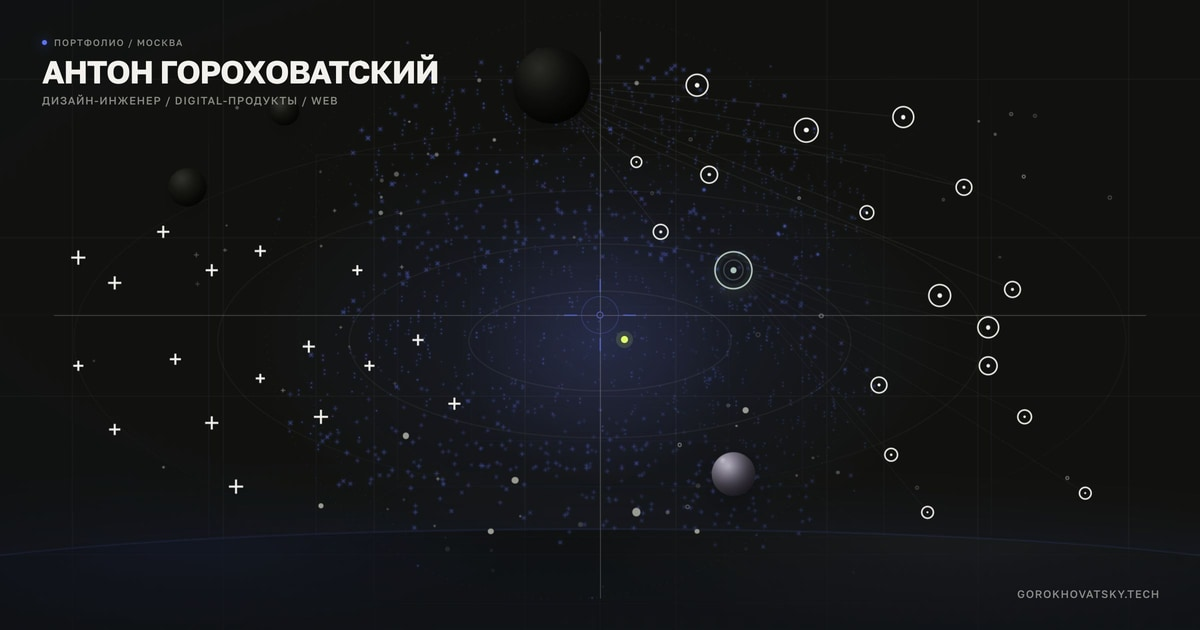
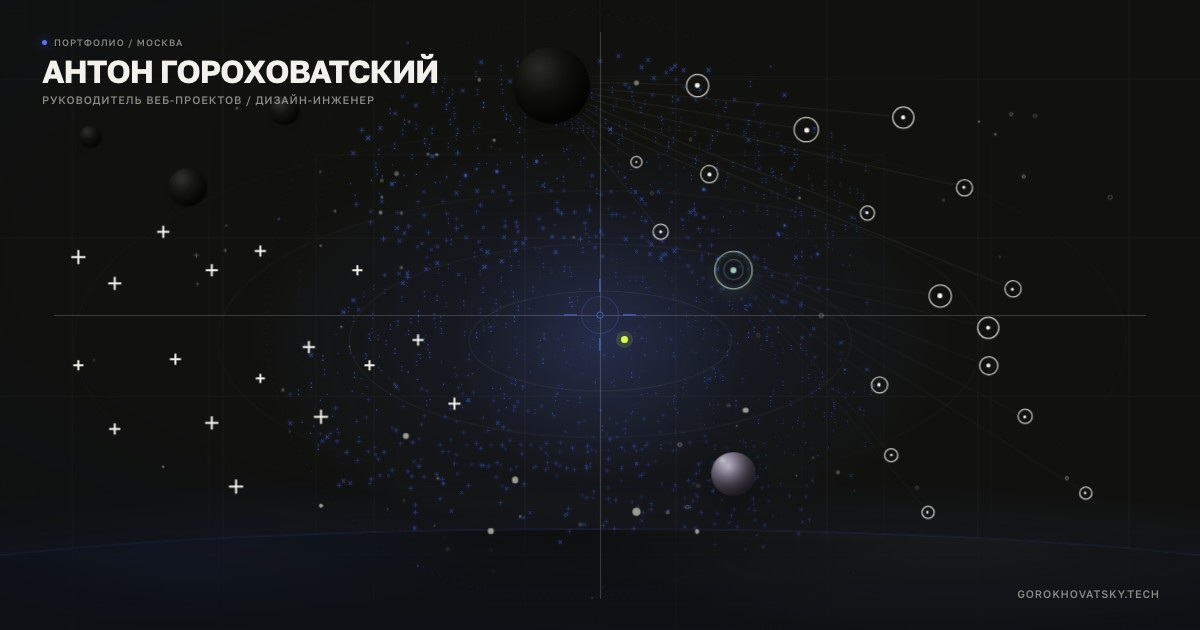
Refresh homepage share image

diff --git a/index.html b/index.html
@@ -38,18 +38,18 @@
     <meta property="og:url" content="https://gorokhovatsky.tech/">
     <meta
       property="og:image"
-      content="https://gorokhovatsky.tech/assets/og-signal.jpg?v=20260729-share-card-1"
+      content="https://gorokhovatsky.tech/assets/og-signal.jpg?v=1f19f782ca1f"
     >
     <meta
       property="og:image:secure_url"
-      content="https://gorokhovatsky.tech/assets/og-signal.jpg?v=20260729-share-card-1"
+      content="https://gorokhovatsky.tech/assets/og-signal.jpg?v=1f19f782ca1f"
     >
     <meta property="og:image:type" content="image/jpeg">
     <meta property="og:image:width" content="1200">
     <meta property="og:image:height" content="630">
     <meta
       property="og:image:alt"
-      content="Тёмная пространственная карта опыта Антона Гороховатского с орбитами, проектными узлами и сигнальным центром."
+      content="Тёмная пространственная карта опыта Антона Гороховатского с орбитами, проектными узлами и подписью «Руководитель веб-проектов / дизайн-инженер»."
     >
     <meta name="twitter:card" content="summary_large_image">
     <meta
@@ -62,11 +62,11 @@
     >
     <meta
       name="twitter:image"
-      content="https://gorokhovatsky.tech/assets/og-signal.jpg?v=20260729-share-card-1"
+      content="https://gorokhovatsky.tech/assets/og-signal.jpg?v=1f19f782ca1f"
     >
     <meta
       name="twitter:image:alt"
-      content="Тёмная пространственная карта опыта Антона Гороховатского с орбитами, проектными узлами и сигнальным центром."
+      content="Тёмная пространственная карта опыта Антона Гороховатского с орбитами, проектными узлами и подписью «Руководитель веб-проектов / дизайн-инженер»."
     >
     <link rel="canonical" href="https://gorokhovatsky.tech/">
     <script>
@@ -203,12 +203,12 @@
           {
             "@type": "ImageObject",
             "@id": "https://gorokhovatsky.tech/#share-image",
-            "url": "https://gorokhovatsky.tech/assets/og-signal.jpg?v=20260729-share-card-1",
-            "contentUrl": "https://gorokhovatsky.tech/assets/og-signal.jpg?v=20260729-share-card-1",
+            "url": "https://gorokhovatsky.tech/assets/og-signal.jpg?v=1f19f782ca1f",
+            "contentUrl": "https://gorokhovatsky.tech/assets/og-signal.jpg?v=1f19f782ca1f",
             "encodingFormat": "image/jpeg",
             "width": 1200,
             "height": 630,
-            "caption": "Тёмная пространственная карта опыта Антона Гороховатского с орбитами, проектными узлами и сигнальным центром."
+            "caption": "Тёмная пространственная карта опыта Антона Гороховатского с орбитами, проектными узлами и подписью «Руководитель веб-проектов / дизайн-инженер»."
           }
         ]
       }

diff --git a/docs/ui-state-matrix.md b/docs/ui-state-matrix.md
@@ -61,6 +61,7 @@
 | `settings-mobile-height` | Открыть общие настройки и отдельную приватность на mobile `390×844`, `393×650` и `320×568` | На высоком экране каждая оболочка обнимает свой фактический контент и оставляет после завершающей cookie-ссылки только штатный внутренний отступ, а не свободную высоту viewport; header, intro, строки настроек, состояние, действие, privacy-пояснения и ссылка разделены самостоятельными интервалами, строки имеют не менее `72 px`, controls — не менее `44 px`; в первом кадре `390×650` действие аналитики видно целиком до прокрутки, а ниже начинается вторичный privacy-блок; в обычной теме body сохраняет touch- и keyboard-прокрутку без тяжёлой нативной полосы, а forced colors возвращает системный scrollbar; на `320×568` обе альтернативы первого privacy-решения видимы в одной строке, а в общих настройках ограничивается оболочка и прокручивается только body; page overflow не возникает |
 | `analytics-decision-signals` | После opt-in открыть точку, выбрать результат поиска, открыть панель и завершить маршрут | Есть `point_open`, `search_success`, `panel_open`, `observation_complete`; только allowlisted параметры, без поискового текста и свободных значений |
 | `resume-routes` | Открыть `РЕЗЮМЕ / HH.RU`, затем ссылки в контакте | Основной внешний маршрут ведёт на hh.ru; подробная хронология Notion остаётся вторым явно названным маршрутом; ссылки имеют различимые доступные имена |
+| `share-home` | Открыть `?og=1` при `1200×630`, dark, reduced motion | Актуальные карта, имя, роль и домен образуют чистый кадр без controls и overflow; `og:image`, Twitter и JSON-LD ссылаются на тот же JPEG через SHA-256 cache key, а alt/caption описывают фактический кадр |
 | `share-route` | Открыть шесть `/work/<id>/` | Собственные title/description/canonical/OG `1200×630`, затем корректный `?point=<id>#map` |
 | `no-script` | Отключить JavaScript | Автор, работодательское назначение, шесть ключевых кейсов, оба маршрута резюме и контакты доступны без tracking pixel |
 | `keyboard-focus` | Hover, pointer/touch, Tab/Shift+Tab/Enter/Space/Arrows/Escape | Hover меняет только цвет текста, но не рисует сигнальную рамку; после pointer/touch нет остаточного ореола; после `Tab` видна одна внутренняя focus-линия; порядок, focus trap/return сохранены |

diff --git a/docs/acceptance-history.md b/docs/acceptance-history.md
@@ -5,6 +5,21 @@
 > набор состояний. Актуальная рабочая матрица находится в
 > [`ui-state-matrix.md`](./ui-state-matrix.md).
 
+## Точечный проход 2026-08-17 — актуальная браузерная share-картинка
+
+Основной JPEG для браузерных превью отставал от текущего `?og=1`: в старом
+кадре сохранялась прежняя формулировка роли, хотя публичный интерфейс уже
+показывал `РУКОВОДИТЕЛЬ ВЕБ-ПРОЕКТОВ / ДИЗАЙН-ИНЖЕНЕР` и актуальную карту.
+
+- `assets/og-signal.jpg` переснят из штатного capture-state при `1200×630`,
+  dark и reduced motion; проектные изображения `assets/share/*.jpg` не менялись.
+- Два последовательных экспорта дали один и тот же SHA-256
[1 lines of base64/hex data omitted]
+- OG, Twitter и JSON-LD используют единый content-hash cache key
+  `1f19f782ca1f`; alt/caption теперь описывают фактическую роль в кадре.
+- Локальный визуальный контроль итогового JPEG — PASS: имя, роль, карта и домен
+  читаются, служебные controls и overflow отсутствуют.
+
 ## Точечный проход 2026-08-15 — видимое действие до mobile-прокрутки
 
 После скрытия тяжёлого scrollbar физический mobile Safari перестал сообщать,

diff --git a/README.md b/README.md
@@ -210,9 +210,12 @@ route.
   `1200×630` previews are reproduced with
   `node scripts/capture-share-images.mjs`; pass route IDs to refresh only
   selected images.
-- `node scripts/check-publication-assets.mjs` keeps the six canonical/OG
-  routes, their image geometry, the sitemap, and the draft PDF integrity in one
-  reproducible contract.
+- The main `1200×630` browser share image is reproduced from the current
+  `?og=1` site state with `node scripts/capture-share-images.mjs site`; its
+  metadata URL uses the first 12 characters of the JPEG SHA-256 as a cache key.
+- `node scripts/check-publication-assets.mjs` keeps the main share image, the
+  six canonical/OG routes, their image geometry, the sitemap, and the draft PDF
+  integrity in one reproducible contract.
 - Arial/Helvetica remain system fallbacks only. The constellation positions
   each glyph independently on the canvas, so its geometry does not require a
   monospace font.
